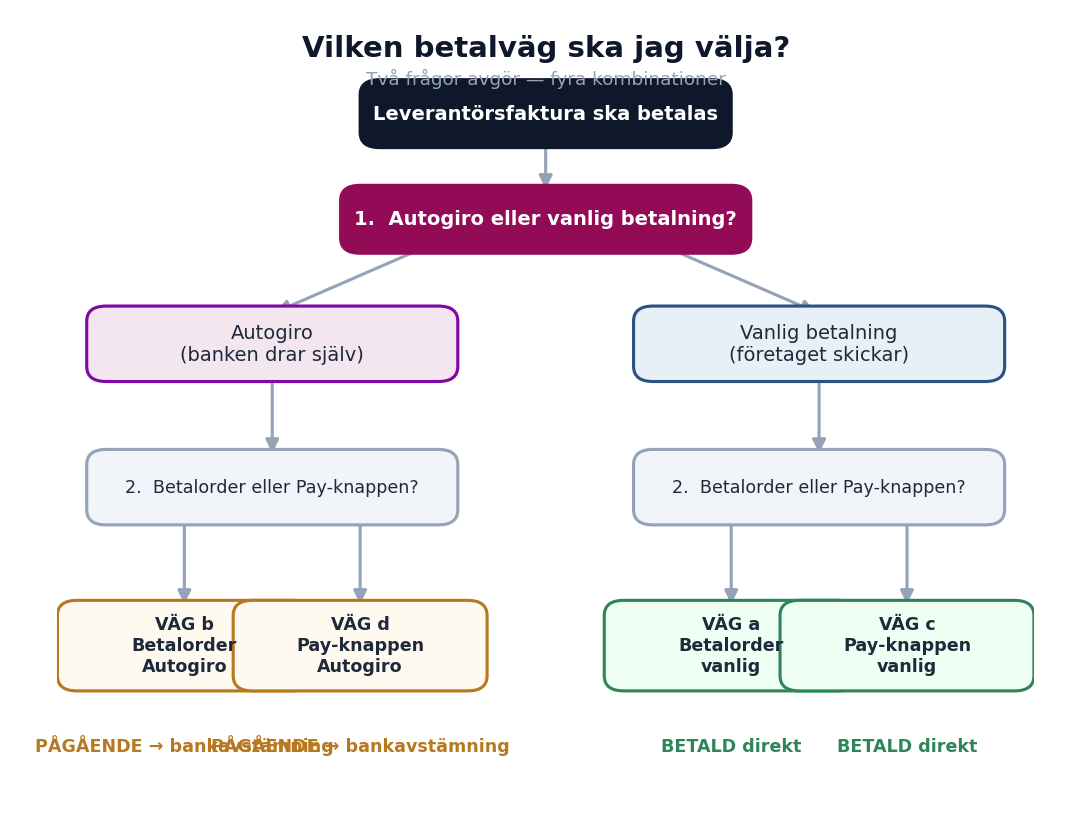
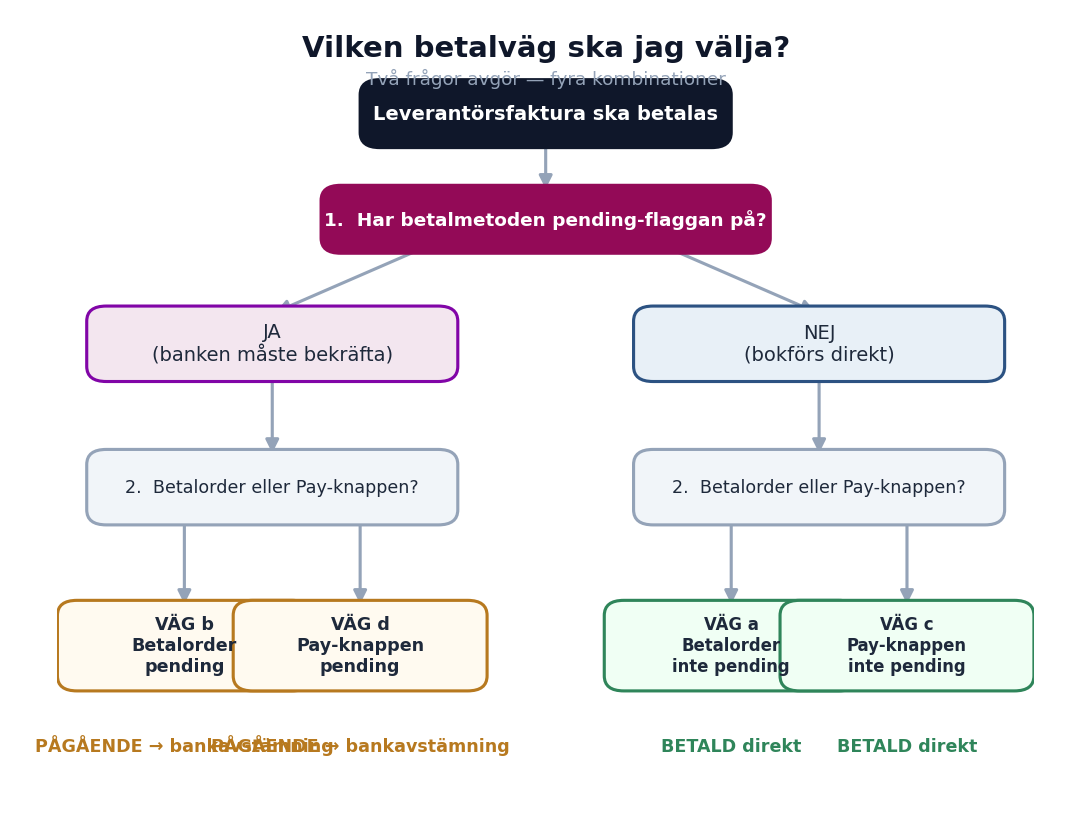
[FIX] account_payment_order_autogiro_lms: the pending flag decides, not the payment type (T/10775)
The course described path a as "ordinary payment order" and path b as
"payment order with Autogiro", implying that Autogiro is what makes a bill
wait for the bank. That is wrong, and misleading in a real database: the
Pending Until Reconciliation flag on the payment method is what decides, and
it can be set on IBAN, Bankgiro and SEPA just as well as on Autogiro.

Verified on sfa-test, where every real bank method carries the flag:

    se_credit_transfer     (20022 IBAN, Bankgiro)  pending=true
    sepa_credit_transfer   (SEPA to suppliers)     pending=true
    se_credit_transfer_20  (Swedbank MIG 2.0)      pending=true
    autogiro                                       pending=true
    manual                                         pending=false
    sepa_ct                                        pending=false

So in that environment there is no ordinary payment order that posts
directly — path a only exists with `manual`/`sepa_ct`, which are not used
for real payments. The course as written taught a flow that does not exist.

Changes:
- Path a is now "payment order, method WITHOUT the pending flag" and path b
  "payment order, method WITH the pending flag" — the flag is the
  discriminator, matching account_payment_order_pending's own design.
- New slide in section 1 explaining that the flag decides and where to find
  it (Accounting > Configuration > Payment Methods), with the note that the
  setting is per method so methods in the same company can differ.
[…]

diff --git a/account_payment_order_autogiro_lms/static/description/index.html b/account_payment_order_autogiro_lms/static/description/index.html
@@ -38,6 +38,9 @@
                      border-left:4px solid var(--brand); }
     .feature-card h4 { font-size:1rem; font-weight:600; color:var(--navy); margin-bottom:6px; }
     .feature-card p { font-size:0.9rem; color:#475569; margin:0; }
+    .note { background:#fffaf0; border-left:4px solid var(--amber); border-radius:8px;
+             padding:16px 20px; margin-top:16px; }
+    .note p { margin:0; font-size:0.95rem; }
     .screenshots { display:flex; flex-wrap:wrap; gap:24px; align-items:flex-start; }
     .screenshots figure { margin:0; text-align:center; }
     .screenshots img { display:block; border-radius:8px;
@@ -73,13 +76,16 @@
         <tr><th style="width:8%;">Path</th><th style="width:34%;">How</th><th style="width:26%;">What is posted</th><th style="width:32%;">Bill outcome</th></tr>
       </thead>
       <tbody>
-        <tr><td><b>a</b></td><td>Ordinary payment order</td><td>Payment posted and reconciled at upload</td><td><span class="pill pill-paid">Betald</span> immediately</td></tr>
-        <tr><td><b>b</b></td><td>Payment order, Autogiro method</td><td>Nothing posted at upload</td><td><span class="pill pill-pending">Pågående</span> until bank reconciliation</td></tr>
-        <tr><td><b>c</b></td><td>Manual payment (Pay) with date</td><td>Payment posted immediately with the chosen date</td><td><span class="pill pill-paid">Betald</span> immediately</td></tr>
-        <tr><td><b>d</b></td><td>Manual payment, Autogiro <i>(exception)</i></td><td>Nothing &mdash; no payment is created at all</td><td><span class="pill pill-pending">Pågående</span> until bank reconciliation</td></tr>
+        <tr><td><b>a</b></td><td>Payment order, method <i>without</i> the pending flag</td><td>Payment posted and reconciled at upload</td><td><span class="pill pill-paid">Betald</span> immediately</td></tr>
+        <tr><td><b>b</b></td><td>Payment order, method <i>with</i> the pending flag</td><td>Nothing posted at upload</td><td><span class="pill pill-pending">Pågående</span> until bank reconciliation</td></tr>
+        <tr><td><b>c</b></td><td>Manual payment (Pay), method without the pending flag</td><td>Payment posted immediately with the chosen date</td><td><span class="pill pill-paid">Betald</span> immediately</td></tr>
+        <tr><td><b>d</b></td><td>Manual payment (Pay), method with the pending flag <i>(exception)</i></td><td>Nothing &mdash; no payment is created at all</td><td><span class="pill pill-pending">Pågående</span> until bank reconciliation</td></tr>
       </tbody>
     </table>
     <p><small>Paths <b>a</b> and <b>c</b> post immediately and yield <i>Betald</i>. Paths <b>b</b> and <b>d</b> wait for the bank and yield <i>Pågående</i>. The difference between a/b and c/d is only how the payment is started &mdash; payment order or the Pay button.</small></p>
+    <div class="note">
+      <p><strong>What decides is the flag, not the name.</strong> A method's <i>Pending Until Reconciliation</i> setting (Accounting &rarr; Configuration &rarr; Payment Methods) determines whether it takes path a or b. Autogiro is the common case, but IBAN, Bankgiro and SEPA can carry the flag too &mdash; so a payment that looks "ordinary" may still wait for the bank. The flag is per method, so different methods in the same company can behave differently.</p>
+    </div>
   </section>
   <section id="features">
     <h2>Key Features</h2>

diff --git a/account_payment_order_autogiro_lms/__manifest__.py b/account_payment_order_autogiro_lms/__manifest__.py
@@ -29,14 +29,22 @@ bill in different states, which is what the course exists to explain.
 
     The four paths:
 
-        a) Vanlig betalorder        — posted and reconciled at upload; bill Paid
-        b) Betalorder med Autogiro  — nothing posted; bill In Payment until the
-                                      bank statement is reconciled
-        c) Manuell betalning (Pay)  — payment date below memo, defaulting to the
-                                      invoice due date; bill Paid immediately,
-                                      entry linked to the bank line later
-        d) Manuell betalning med    — no payment and no entry created; bill
-           Autogiro (undantag)        flagged and In Payment until reconciliation
+        a) Betalorder, metod utan      — posted and reconciled at upload; bill Paid
+           pending-flagga
+        b) Betalorder, metod med       — nothing posted; bill In Payment until the
+           pending-flagga (Autogiro)     bank statement is reconciled
+        c) Manuell betalning (Pay)     — payment date below memo, defaulting to the
+                                       invoice due date; bill Paid immediately,
+                                       entry linked to the bank line later
+        d) Manuell betalning, metod    — no payment and no entry created; bill
+           med pending-flagga            flagged and In Payment until reconciliation
+
+    What decides between a and b (and between c and d) is the payment method's
+"Pending Until Reconciliation" flag — not the name of the payment type. Autogiro
+is the common case, but IBAN, Bankgiro and SEPA can carry the flag too, so a
+"normal" bank payment may also wait for the bank. The course says so explicitly,
+because the flag is a per-method configuration and different methods in the same
+company can behave differently.
 
     Every statement about the outcome of a path is tied to a named test in
 account_payment_order_pending or account_payment_order_autogiro, so the course
